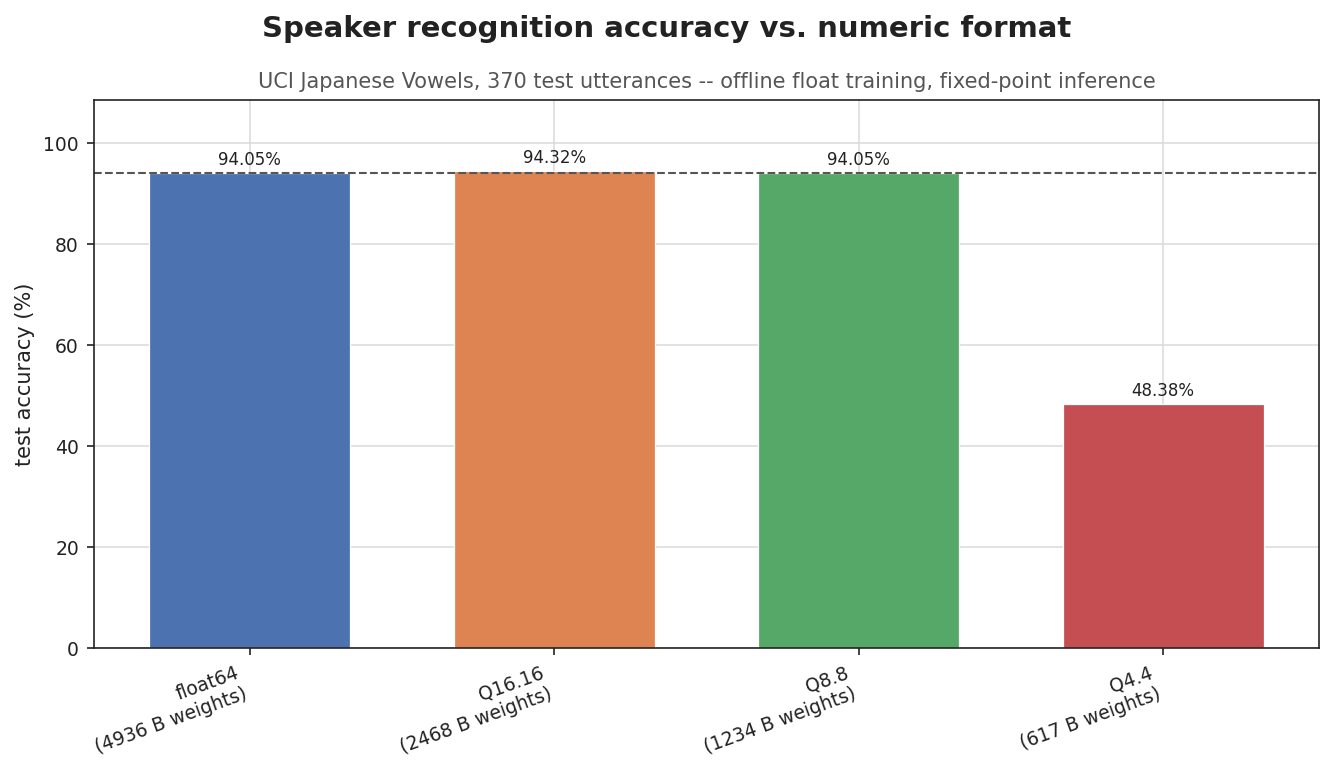
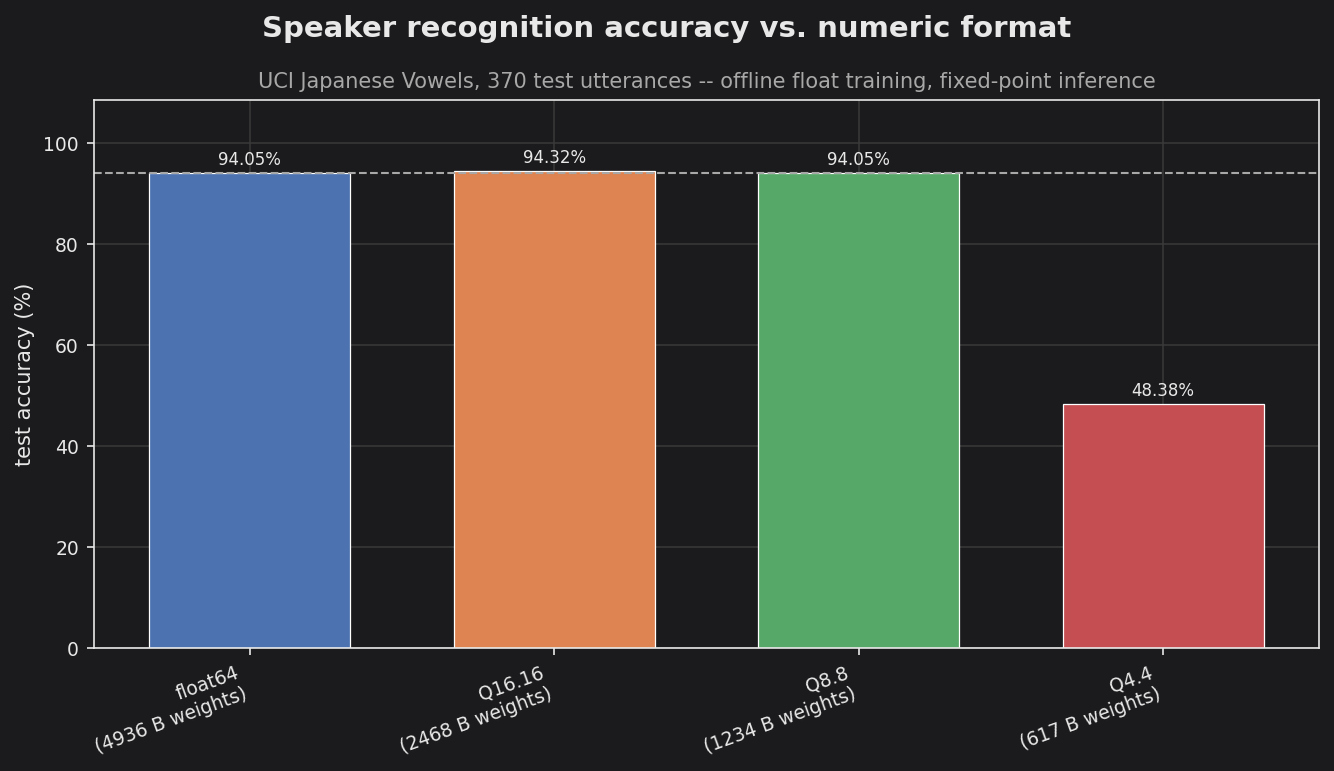
docs: surface elman_vowels on Pages (gallery + UCI report)
The detail page (docs/examples/elman_vowels.md) auto-appears in nav via
just-the-docs front matter, but the gallery and the UCI capability report are
hand-curated. Add the Japanese Vowels entry to both: gallery "UCI dataset
solutions" section and the capability report (section + summary-table row).
Re-render the accuracy plot in the dark theme to match the site.

Also relax the report's "entirely in Q16.16" blanket claim -- the Japanese
Vowels example trains in float and sweeps formats to Q8.8, so it is the
documented exception.

diff --git a/docs/uci_dataset_capability_report.md b/docs/uci_dataset_capability_report.md
@@ -27,8 +27,11 @@ Each example states one of three data modes:
   rules of the UCI dataset; no real-data loader (the dataset's *phenomenon* is
   the subject, not its exact rows).
 
-Every example is the `NeuralNet<>` / `LstmNeuralNetwork<>` train-and-deploy
-path run entirely in `QValue` **Q16.16 fixed-point**, the on-MCU shape.
+Most examples are the `NeuralNet<>` / `LstmNeuralNetwork<>` train-and-deploy
+path run entirely in `QValue` **Q16.16 fixed-point**, the on-MCU shape. The
+Japanese Vowels example is the exception that proves the rule: it trains
+offline in float and then sweeps fixed-point formats to find the smallest one
+(Q8.8) that holds the float accuracy.
 
 ---
 
@@ -69,6 +72,13 @@ path run entirely in `QValue` **Q16.16 fixed-point**, the on-MCU shape.
 - **Result:** ~97.5% test accuracy (195/200). `LstmNeuralNetwork<>` for sequence classification.
 - [`examples/har_activity`](https://github.com/danmcleran/tinymind/tree/master/examples/har_activity) · [page]({{ site.baseurl }}/examples/har_activity)
 
+### Japanese Vowels — recurrent (Elman), offline-float → fixed-point sweep
+- **Dataset:** [UCI Japanese Vowels](https://archive.ics.uci.edu/dataset/128/japanese+vowels) — 9 speakers · 12 LPC cepstrum coeffs · 7–29 frame sequences · 270 train / 370 test.
+- **Model:** `ElmanNeuralNetwork` 12→16 (tanh, recurrent)→9 sigmoid, per-frame scores summed over the utterance, argmax speaker. z-score/3 input scaling.
+- **Data:** ships real data (`ae.train` / `ae.test`).
+- **Result:** the deployment-flow demo — trained offline in **double**, then swept across fixed-point formats. **Q8.8 matches double-precision accuracy exactly (94.05%)** in 1.2 KB of weights (4× smaller); Q4.4 collapses. Lands on the Kudo et al. 1999 paper baseline (94.1%).
+- [`examples/elman_vowels`](https://github.com/danmcleran/tinymind/tree/master/examples/elman_vowels) · [page]({{ site.baseurl }}/examples/elman_vowels)
+
 ### Air Quality Forecasting — recurrent (LSTM)
 - **Dataset:** [UCI Air Quality](https://archive.ics.uci.edu/dataset/360) — hourly pollutant series.
 - **Model:** Q16.16 **LSTM** 1→16 (tanh)→1 sigmoid, next-hour forecaster. 24-hour state reset per BPTT segment, series normalized to [0.1, 0.9].
@@ -94,6 +104,7 @@ path run entirely in `QValue` **Q16.16 fixed-point**, the on-MCU shape.
 | Optical Digits | Optical Digits (8×8) | 10-class image | MLP | ships real |
 | Predictive Maintenance | AI4I 2020 | binary | MLP + physics features | optional real |
 | HAR Activity | HAR Smartphones | seq classification | `LstmNeuralNetwork<>` | optional real |
+| Japanese Vowels | Japanese Vowels | seq classification | `ElmanNeuralNetwork<>`, float→Q8.8 sweep | ships real |
 | Air Quality | Air Quality | seq forecasting | `LstmNeuralNetwork<>` | optional real |
 | Gas Sensor Drift | Gas Sensor Array Drift | 6-class + drift | MLP + batchnorm story | synthetic, UCI-inspired |
 

diff --git a/docs/gallery.md b/docs/gallery.md
@@ -74,6 +74,9 @@ for which example uses which dataset.
 **Human activity recognition** — recurrent `LstmNeuralNetwork` (3→16→4) over tri-axial accelerometer windows.
 ![HAR activity classifier]({{ site.baseurl }}/assets/plots/har_activity.png)
 
+**Japanese Vowels** — recurrent `ElmanNeuralNetwork` (12→16→9) speaker ID; trained offline in float, then swept across fixed-point formats. Q8.8 matches double precision at 4× smaller weights.
+![Elman Japanese Vowels accuracy vs format]({{ site.baseurl }}/assets/plots/elman_vowels.png)
+
 **Gas sensor array drift** — MLP (128→32→6) trained on batch 1; accuracy decays across later batches as sensors drift.
 ![Gas sensor drift]({{ site.baseurl }}/assets/plots/gas_sensor_drift.png)
 